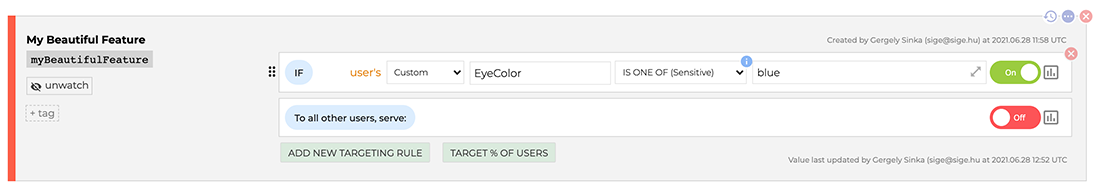
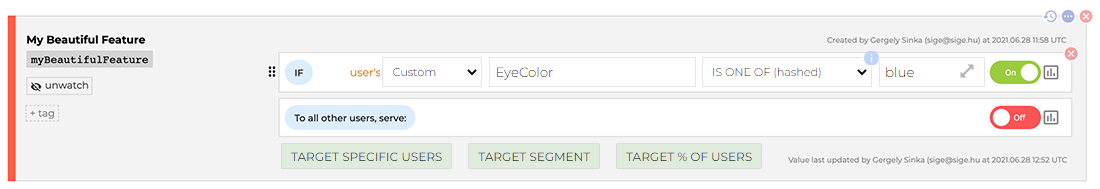
Sensitvive -> Confidential

diff --git a/website/docs/sdk-reference/js-ssr.md b/website/docs/sdk-reference/js-ssr.md
@@ -405,7 +405,7 @@ const configCatClient = configcat.createClientWithAutoPoll('PKDVCLf-Hq-h-kCzMp-L
 The frontend/mobile SDKs are running in your users' browsers/devices. The SDK is downloading a [config.json](https://configcat.com/docs/requests/) file from ConfigCat's CDN servers. The URL path for this config.json file contains your SDK key, so the SDK key and the content of your config.json file (feature flag keys, feature flag values, targeting rules, % rules) can be visible to your users. 
 This SDK key is read-only, it only allows downloading your config.json file, but nobody can make any changes with it in your ConfigCat account.  
 Suppose you don't want your SDK key or the content of your config.json file visible to your users. In that case, we recommend you use the SDK only in your backend applications and call a backend endpoint in your frontend/mobile application to evaluate the feature flags for a specific application customer.  
-Also, we recommend using [sensitive targeting comparators](https://configcat.com/docs/advanced/targeting/#sensitive-text-comparators) in the targeting rules of those feature flags that are used in the frontend/mobile SDKs.
+Also, we recommend using [confidential targeting comparators](https://configcat.com/docs/advanced/targeting/#confidential-text-comparators) in the targeting rules of those feature flags that are used in the frontend/mobile SDKs.
 
 
 ## Browser compatibility

diff --git a/website/docs/sdk-reference/js.md b/website/docs/sdk-reference/js.md
@@ -416,7 +416,7 @@ const configCatClient = configcat.createClientWithAutoPoll('PKDVCLf-Hq-h-kCzMp-L
 The frontend/mobile SDKs are running in your users' browsers/devices. The SDK is downloading a [config.json](https://configcat.com/docs/requests/) file from ConfigCat's CDN servers. The URL path for this config.json file contains your SDK key, so the SDK key and the content of your config.json file (feature flag keys, feature flag values, targeting rules, % rules) can be visible to your users. 
 This SDK key is read-only, it only allows downloading your config.json file, but nobody can make any changes with it in your ConfigCat account.  
 Suppose you don't want your SDK key or the content of your config.json file visible to your users. In that case, we recommend you use the SDK only in your backend applications and call a backend endpoint in your frontend/mobile application to evaluate the feature flags for a specific application customer.  
-Also, we recommend using [sensitive targeting comparators](https://configcat.com/docs/advanced/targeting/#sensitive-text-comparators) in the targeting rules of those feature flags that are used in the frontend/mobile SDKs.
+Also, we recommend using [confidential targeting comparators](https://configcat.com/docs/advanced/targeting/#confidential-text-comparators) in the targeting rules of those feature flags that are used in the frontend/mobile SDKs.
 
 
 ## Browser compatibility

diff --git a/website/docs/sdk-reference/android.md b/website/docs/sdk-reference/android.md
@@ -366,7 +366,7 @@ Evaluating rule: [Email:john@example.com] [CONTAINS] [@example.com] => match, re
 The frontend/mobile SDKs are running in your users' browsers/devices. The SDK is downloading a [config.json](https://configcat.com/docs/requests/) file from ConfigCat's CDN servers. The URL path for this config.json file contains your SDK key, so the SDK key and the content of your config.json file (feature flag keys, feature flag values, targeting rules, % rules) can be visible to your users. 
 This SDK key is read-only, it only allows downloading your config.json file, but nobody can make any changes with it in your ConfigCat account.  
 Suppose you don't want your SDK key or the content of your config.json file visible to your users. In that case, we recommend you use the SDK only in your backend applications and call a backend endpoint in your frontend/mobile application to evaluate the feature flags for a specific application customer.  
-Also, we recommend using [sensitive targeting comparators](https://configcat.com/docs/advanced/targeting/#sensitive-text-comparators) in the targeting rules of those feature flags that are used in the frontend/mobile SDKs.
+Also, we recommend using [confidential targeting comparators](https://configcat.com/docs/advanced/targeting/#confidential-text-comparators) in the targeting rules of those feature flags that are used in the frontend/mobile SDKs.
 
 ## Sample App
 

diff --git a/website/docs/sdk-reference/ios.md b/website/docs/sdk-reference/ios.md
@@ -388,7 +388,7 @@ let client: ConfigCatClient = ConfigCatClient(sdkKey: sdkKey, sessionConfigurati
 The frontend/mobile SDKs are running in your users' browsers/devices. The SDK is downloading a [config.json](https://configcat.com/docs/requests/) file from ConfigCat's CDN servers. The URL path for this config.json file contains your SDK key, so the SDK key and the content of your config.json file (feature flag keys, feature flag values, targeting rules, % rules) can be visible to your users. 
 This SDK key is read-only, it only allows downloading your config.json file, but nobody can make any changes with it in your ConfigCat account.  
 Suppose you don't want your SDK key or the content of your config.json file visible to your users. In that case, we recommend you use the SDK only in your backend applications and call a backend endpoint in your frontend/mobile application to evaluate the feature flags for a specific application customer.  
-Also, we recommend using [sensitive targeting comparators](https://configcat.com/docs/advanced/targeting/#sensitive-text-comparators) in the targeting rules of those feature flags that are used in the frontend/mobile SDKs.
+Also, we recommend using [confidential targeting comparators](https://configcat.com/docs/advanced/targeting/#confidental-text-comparators) in the targeting rules of those feature flags that are used in the frontend/mobile SDKs.
 
 
 ## Sample App

diff --git a/website/docs/sdk-reference/csharp.md b/website/docs/sdk-reference/csharp.md
@@ -302,8 +302,8 @@ The URL to your current config.json is based on your [Data Governance](advanced/
                         // 13 -> '<= (Number)',
                         // 14 -> '> (Number)',
                         // 15 -> '>= (Number)',
-                        // 16 -> 'IS ONE OF (Sensitive)',
-                        // 17 -> 'IS NOT ONE OF (Sensitive)'
+                        // 16 -> 'IS ONE OF (Hashed)',
+                        // 17 -> 'IS NOT ONE OF (Hashed)'
                     "c": "@example.com", // comparison value
                     "v": true, // value served when the rule is selected during evaluation
                     "i": "bcfb84a7" // variation id (for analytical purposes)

diff --git a/website/docs/sdk-reference/elixir.md b/website/docs/sdk-reference/elixir.md
@@ -327,8 +327,8 @@ The URL to your current config.json is based on your [Data Governance](advanced/
                         // 13 -> '<= (Number)',
                         // 14 -> '> (Number)',
                         // 15 -> '>= (Number)',
-                        // 16 -> 'IS ONE OF (Sensitive)',
-                        // 17 -> 'IS NOT ONE OF (Sensitive)'
+                        // 16 -> 'IS ONE OF (Hashed)',
+                        // 17 -> 'IS NOT ONE OF (Hashed)'
                     "c": "@example.com", // comparison value
                     "v": true, // value served when the rule is selected during evaluation
                     "i": "bcfb84a7" // variation id (for analytical purposes)

diff --git a/website/docs/sdk-reference/go.md b/website/docs/sdk-reference/go.md
@@ -308,8 +308,8 @@ The URL to your current config.json is based on your [Data Governance](advanced/
                         // 13 -> '<= (Number)',
                         // 14 -> '> (Number)',
                         // 15 -> '>= (Number)',
-                        // 16 -> 'IS ONE OF (Sensitive)',
-                        // 17 -> 'IS NOT ONE OF (Sensitive)'
+                        // 16 -> 'IS ONE OF (Hashed)',
+                        // 17 -> 'IS NOT ONE OF (Hashed)'
                     "c": "@example.com", // comparison value
                     "v": true, // value served when the rule is selected during evaluation
                     "i": "bcfb84a7" // variation id (for analytical purposes)

diff --git a/website/docs/sdk-reference/java.md b/website/docs/sdk-reference/java.md
@@ -329,8 +329,8 @@ The URL to your current config.json is based on your [Data Governance](advanced/
                         // 13 -> '<= (Number)',
                         // 14 -> '> (Number)',
                         // 15 -> '>= (Number)',
-                        // 16 -> 'IS ONE OF (Sensitive)',
-                        // 17 -> 'IS NOT ONE OF (Sensitive)'
+                        // 16 -> 'IS ONE OF (Hashed)',
+                        // 17 -> 'IS NOT ONE OF (Hashed)'
                     "c": "@example.com", // comparison value
                     "v": true, // value served when the rule is selected during evaluation
                     "i": "bcfb84a7" // variation id (for analytical purposes)

diff --git a/website/docs/sdk-reference/python.md b/website/docs/sdk-reference/python.md
@@ -297,8 +297,8 @@ The URL to your current config.json is based on your [Data Governance](advanced/
                         // 13 -> '<= (Number)',
                         // 14 -> '> (Number)',
                         // 15 -> '>= (Number)',
-                        // 16 -> 'IS ONE OF (Sensitive)',
-                        // 17 -> 'IS NOT ONE OF (Sensitive)'
+                        // 16 -> 'IS ONE OF (Hashed)',
+                        // 17 -> 'IS NOT ONE OF (Hashed)'
                     "c": "@example.com", // comparison value
                     "v": true, // value served when the rule is selected during evaluation
                     "i": "bcfb84a7" // variation id (for analytical purposes)

diff --git a/website/docs/sdk-reference/ruby.md b/website/docs/sdk-reference/ruby.md
@@ -299,8 +299,8 @@ The URL to your current config.json is based on your [Data Governance](advanced/
                         // 13 -> '<= (Number)',
                         // 14 -> '> (Number)',
                         // 15 -> '>= (Number)',
-                        // 16 -> 'IS ONE OF (Sensitive)',
-                        // 17 -> 'IS NOT ONE OF (Sensitive)'
+                        // 16 -> 'IS ONE OF (Hashed)',
+                        // 17 -> 'IS NOT ONE OF (Hashed)'
                     "c": "@example.com", // comparison value
                     "v": true, // value served when the rule is selected during evaluation
                     "i": "bcfb84a7" // variation id (for analytical purposes)

diff --git a/website/docs/sdk-reference/php.md b/website/docs/sdk-reference/php.md
@@ -232,8 +232,8 @@ The URL to your current config.json is based on your [Data Governance](advanced/
                         // 13 -> '<= (Number)',
                         // 14 -> '> (Number)',
                         // 15 -> '>= (Number)',
-                        // 16 -> 'IS ONE OF (Sensitive)',
-                        // 17 -> 'IS NOT ONE OF (Sensitive)'
+                        // 16 -> 'IS ONE OF (Hashed)',
+                        // 17 -> 'IS NOT ONE OF Hashed)'
                     "c": "@example.com", // comparison value
                     "v": true, // value served when the rule is selected during evaluation
                     "i": "bcfb84a7" // variation id (for analytical purposes)

diff --git a/website/docs/faq.md b/website/docs/faq.md
@@ -145,7 +145,7 @@ Also, consider the following:
 [More on stickiness and consistency](advanced/targeting.md/#stickiness--consistency)
 
 ### How to use targeting rules based on sensitive data?
-If you want to use targeting rules based on email address, phone number, or other sensitive data, you can use the [Sensitive text comparators](advanced/targeting.md/#sensitive-text-comparators).
+If you want to use targeting rules based on email address, phone number, or other sensitive data, you can use the [Confidential text comparators](advanced/targeting.md/#confidential-text-comparators).
 
 
 
